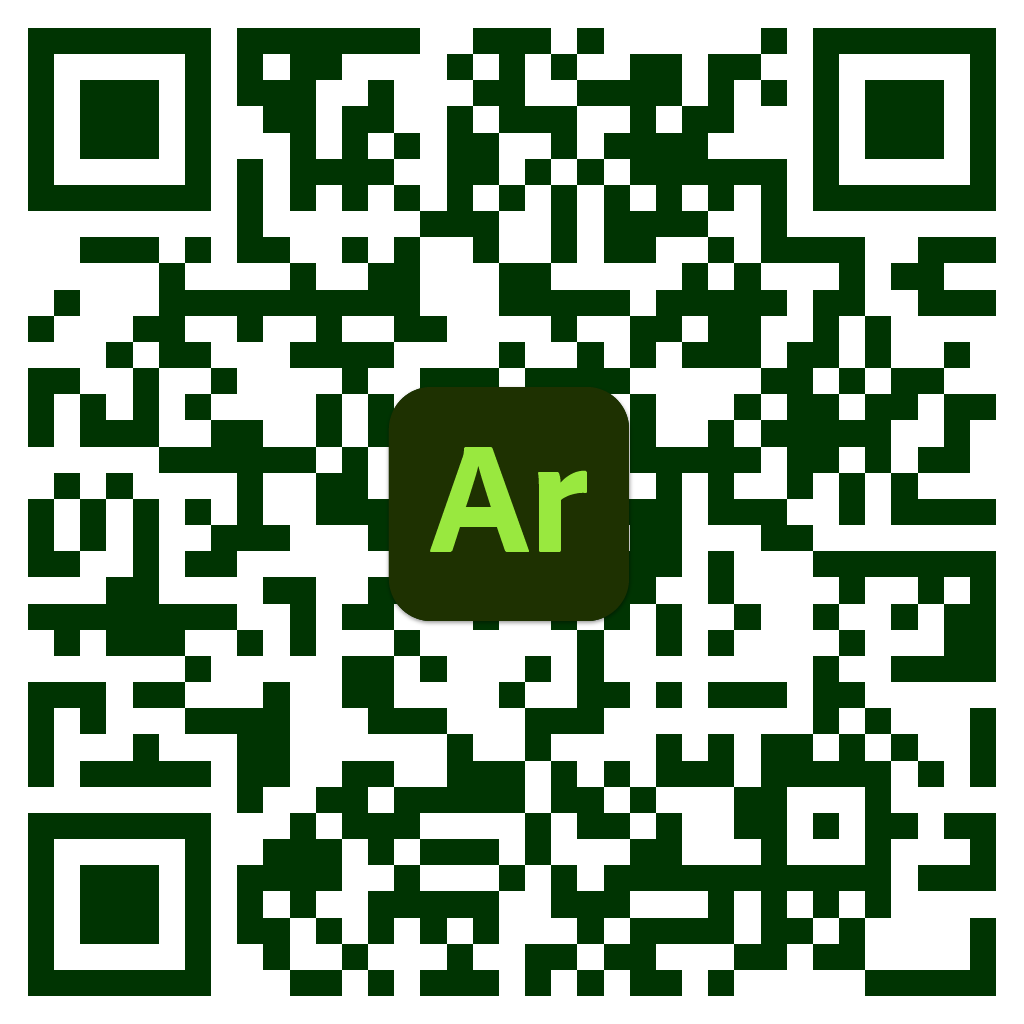
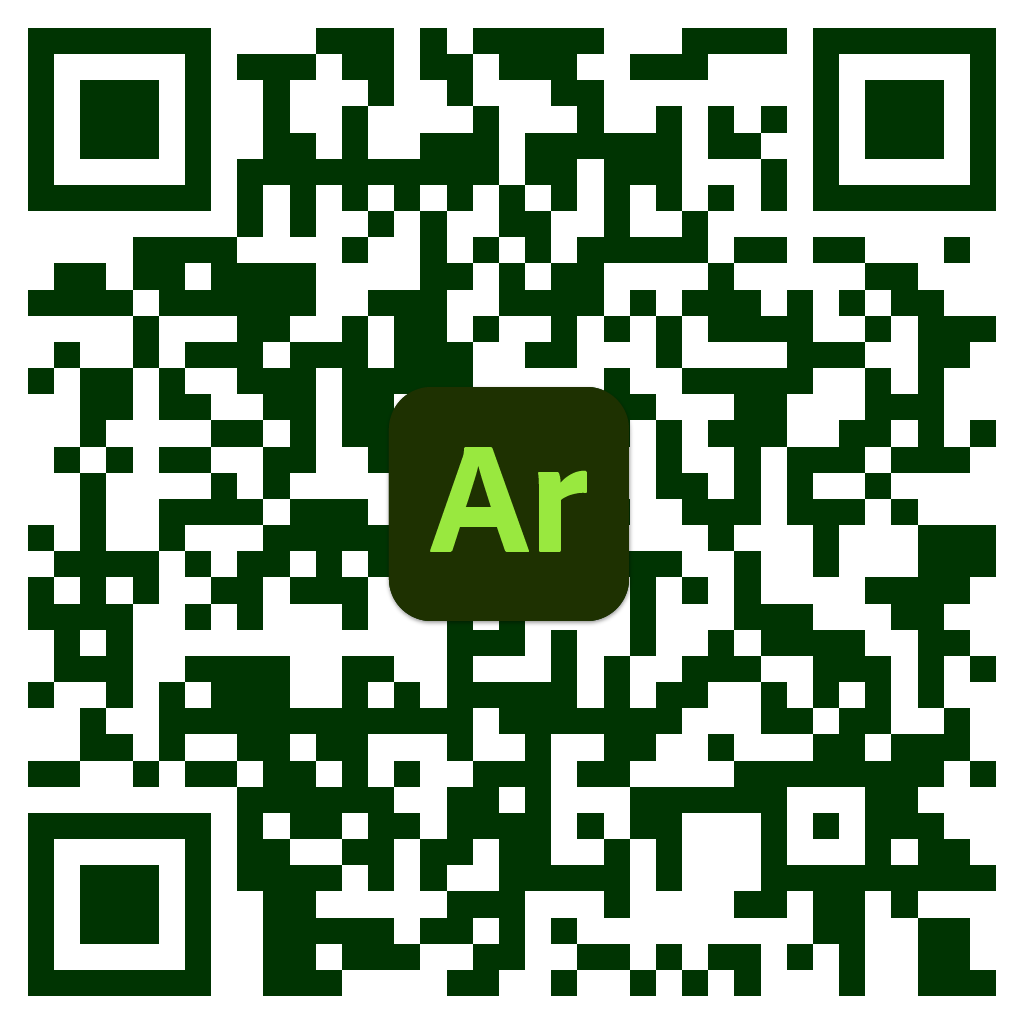
up

diff --git a/index.html b/index.html
@@ -120,7 +120,7 @@
                     XR Tourism merges reality with virtual experiences, transporting users to distant locales without leaving home. 
                     Through augmented or virtual reality, travelers immerse themselves in realistic simulations of destinations worldwide, 
                     offering a taste of adventure, culture, and exploration. It revolutionizes travel, making it accessible and enriching.</p>
-                <a href="https://adobeaero.app.link/FedVJeKU6Ib" class="explore-button">Explore XR</a>
+                <a href="https://adobeaero.app.link/xdGyW0tk7Ib" class="explore-button">Explore XR</a>
             </div>
             <div class="images">
                 <img src="images/screenshot_7.png" alt="image_7a">
